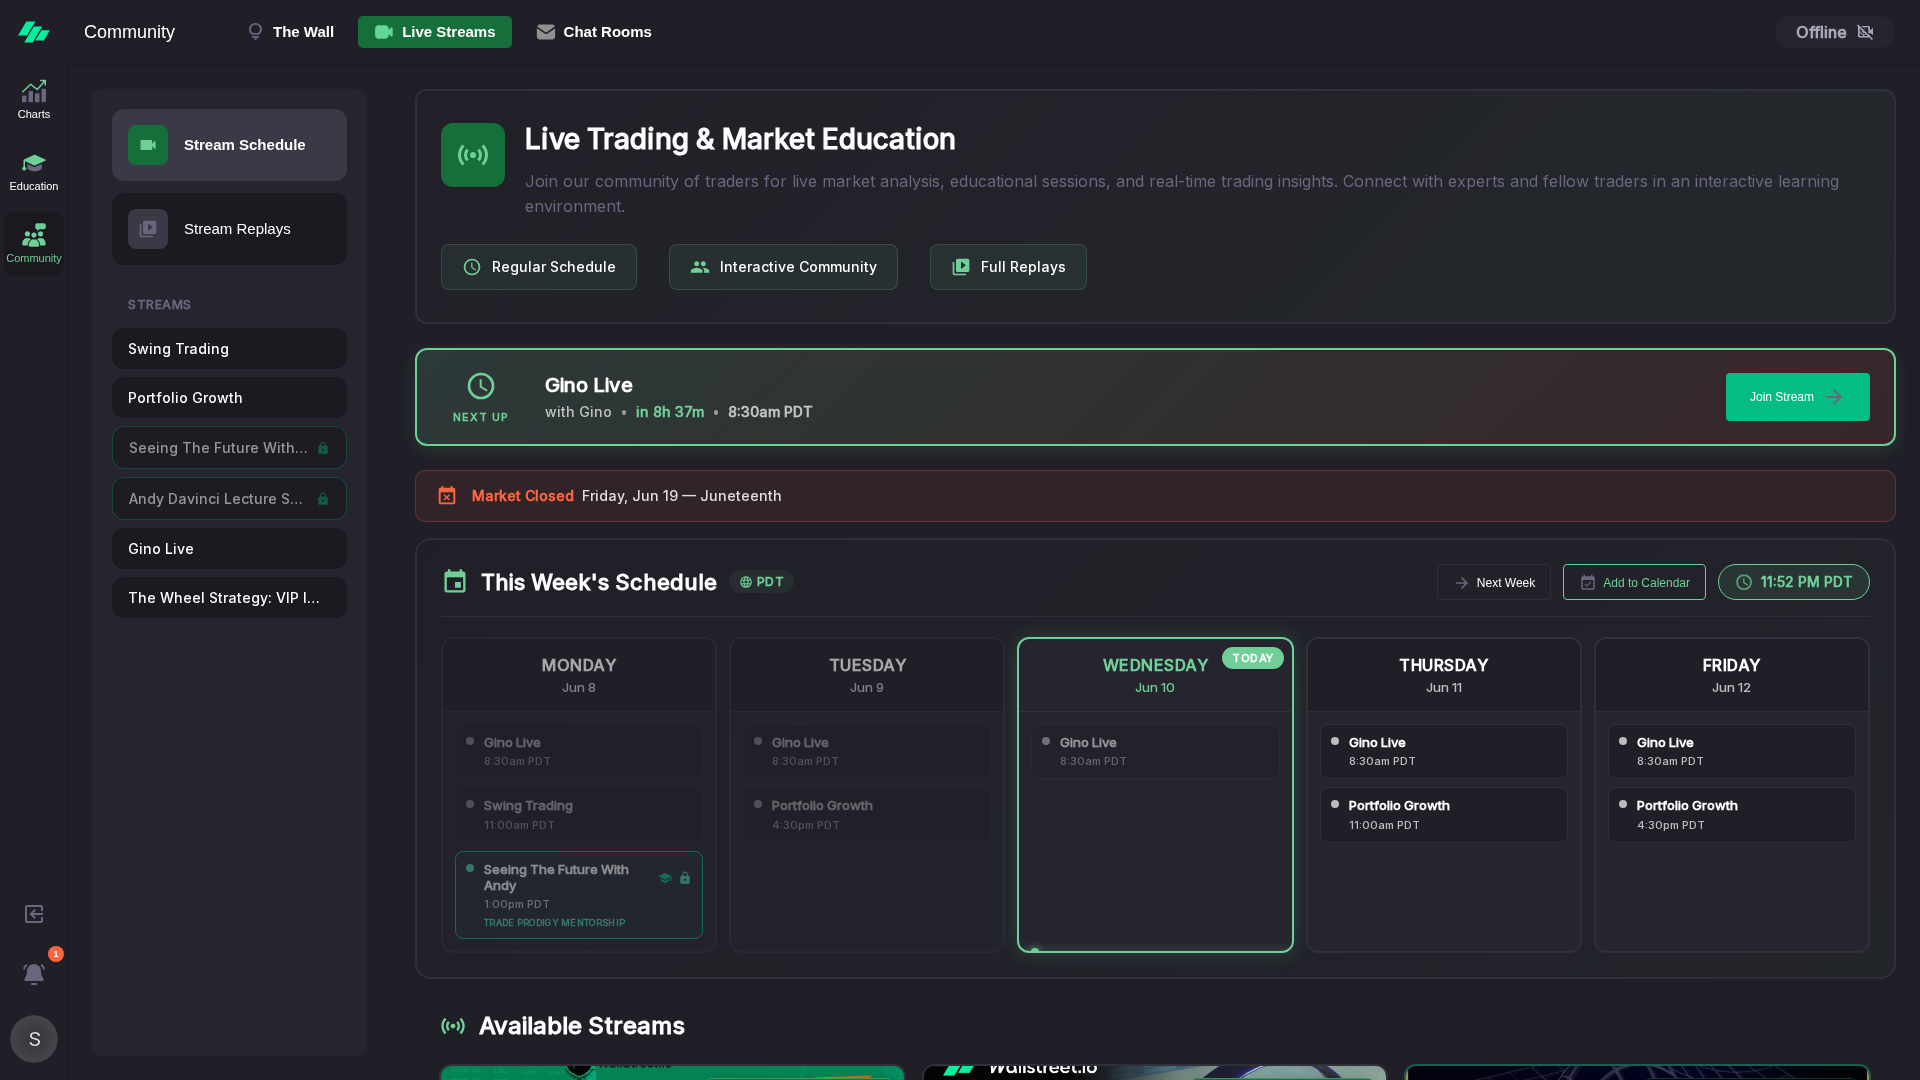
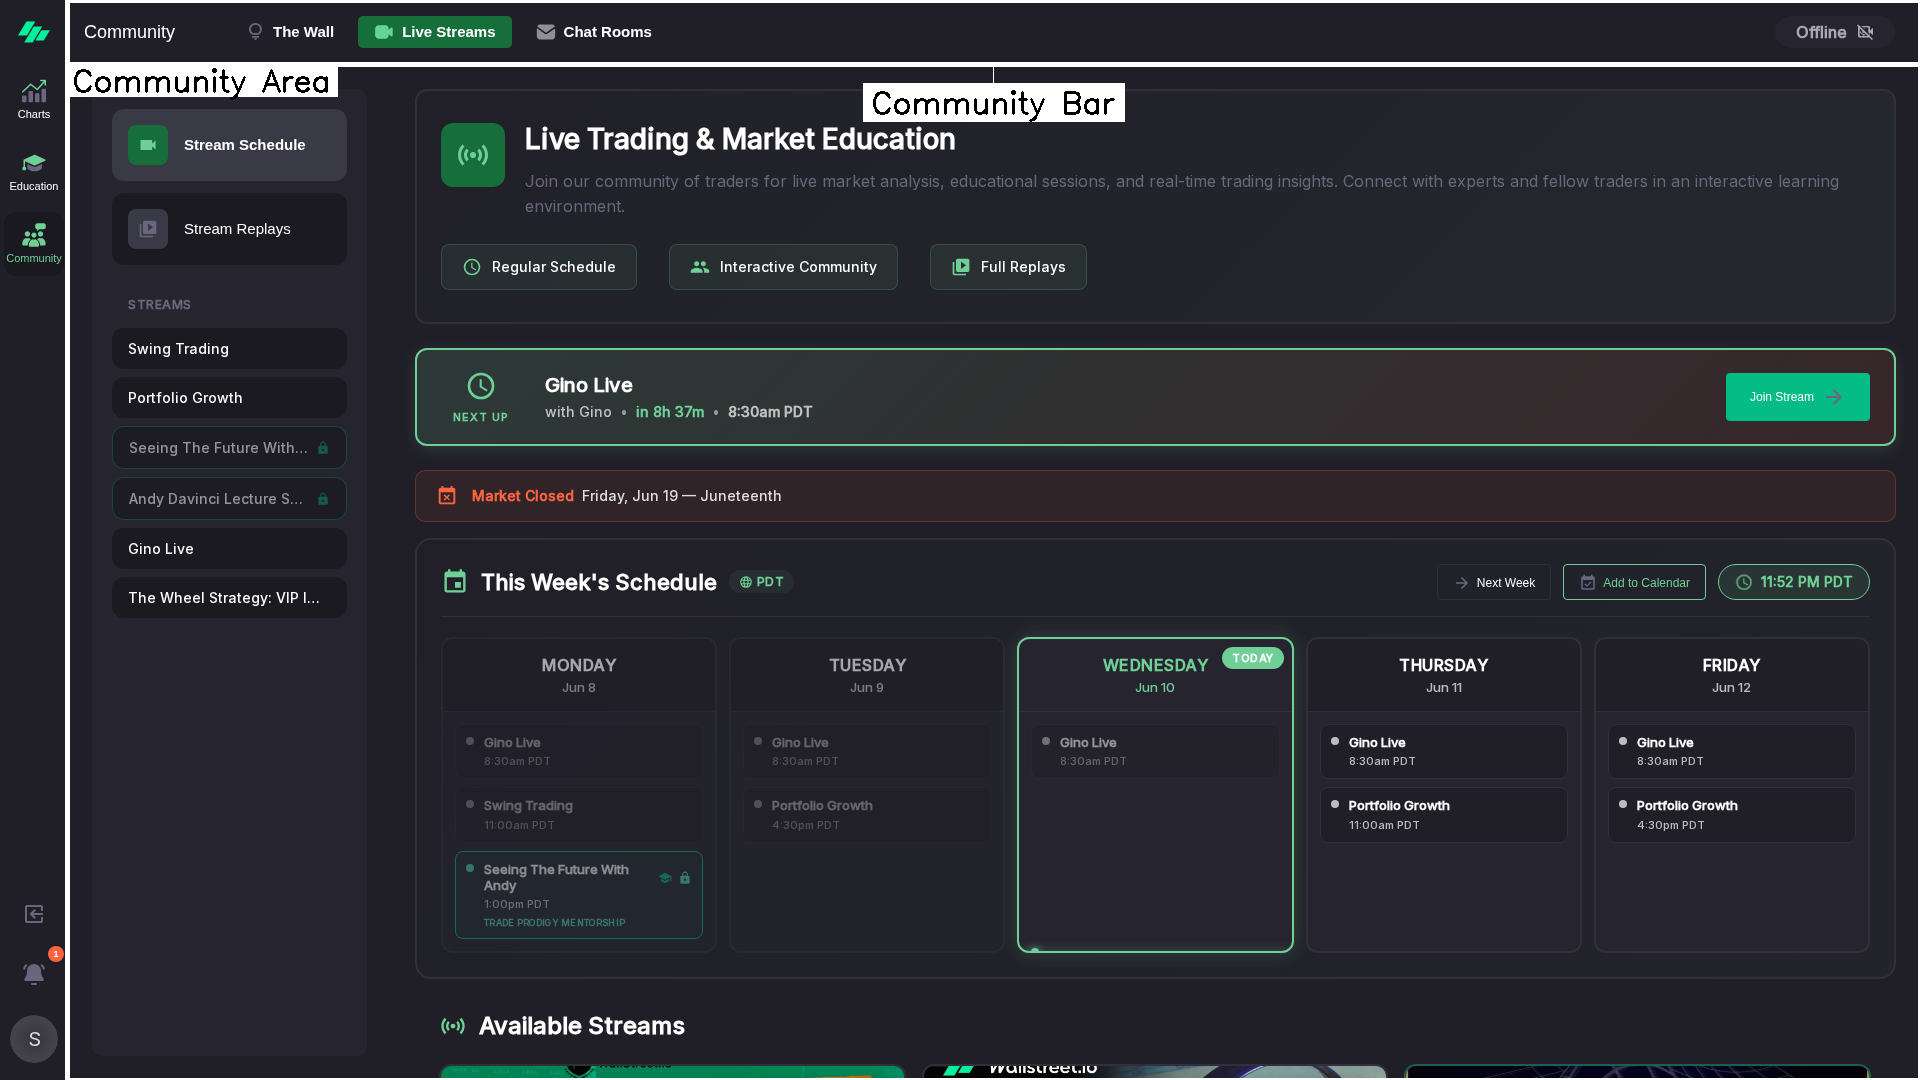
Add markup to community layout.

Changed region(s): [[0.0312, 0.0, 1.0, 0.1222], [0.9688, 0.9778, 1.0, 1.0], [0.0312, 0.9778, 0.0625, 1.0]]

diff --git a/scripts/screenshot.py b/scripts/screenshot.py
@@ -366,10 +366,16 @@ def markup_education():
 
 
 def markup_community():
-    """Copy community app screenshot to complete directory."""
-    source = FRESH / Shot.COMMUNITY_APP.value
-    dest = COMPLETE / Shot.COMMUNITY_APP.value
-    shutil.copy2(source, dest)
+    """Markup and save community app screenshot to complete directory."""
+    img = cv2.imread(FRESH / Shot.COMMUNITY_APP.value)
+    community_bar = norm_bbox(img, 0.035, 0, 1.0, 0.06)
+    img = bbv.draw_box(img, community_bar)
+    gap = int(0.01 * img.shape[1])
+    img = add_cv2_label(img, "Community Bar", community_bar, gap=gap, connector=True)
+    community_area = norm_bbox(img, 0.035, 0.06, 1.0, 1.0)
+    img = bbv.draw_box(img, community_area)
+    img = bbv.add_label(img, "Community Area", community_area, top=False)
+    cv2.imwrite(COMPLETE / Shot.COMMUNITY_APP.value, img)
 
 
 @screenshot.command()